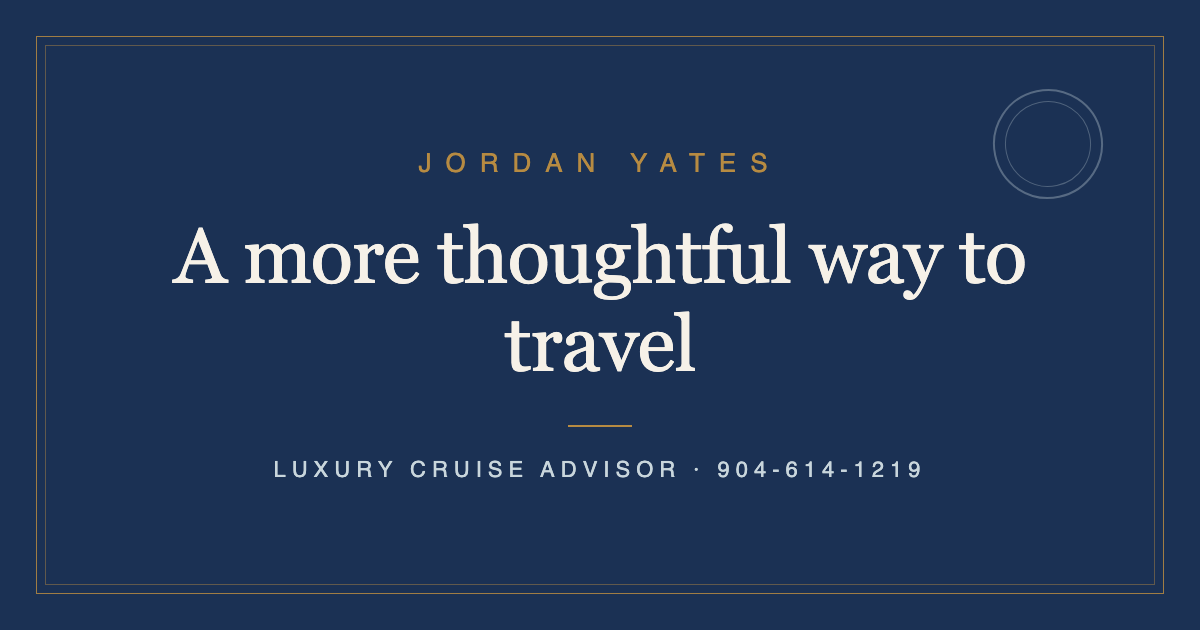
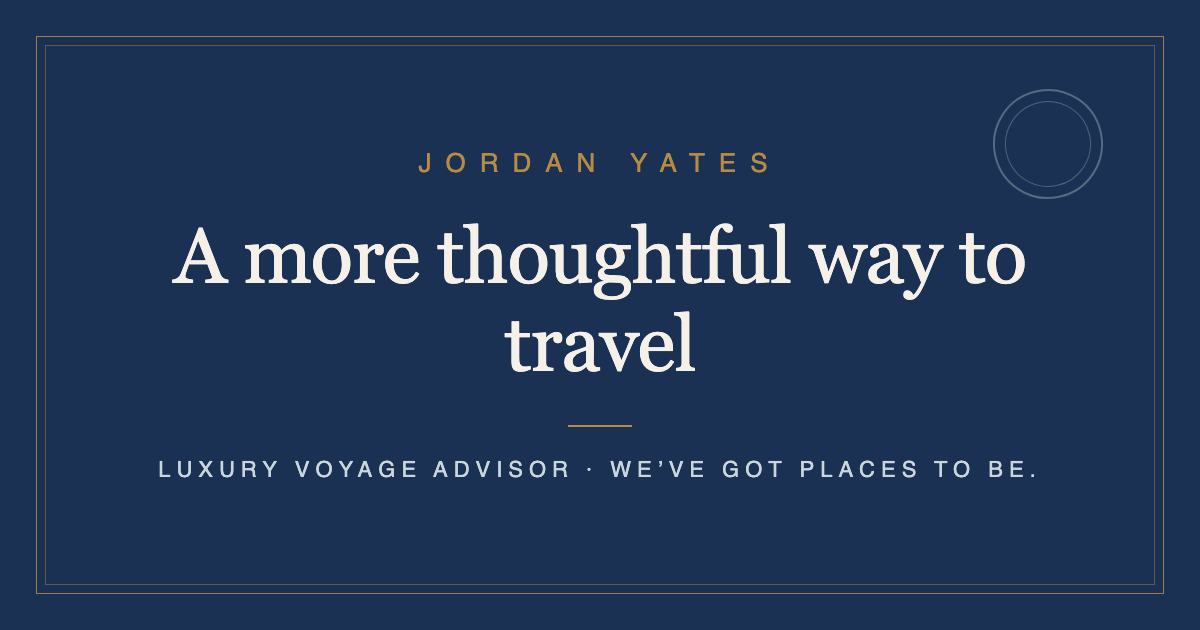
Adopt the business-card identity decisions
From the letterpress card artwork: title becomes Luxury Voyage
Advisor (masthead, footer, stamp arc, OG image); footer credentials
read "In partnership with Luxury Cruise Connections · Virtuoso
member · Est. 2011"; the tagline "We've got places to be." closes
the colophon; service hours join the quote-section phone line.

Changed region(s): [[0.1233, 0.7238, 0.8633, 0.754]]

diff --git a/src/components/SiteFooter.tsx b/src/components/SiteFooter.tsx
@@ -9,7 +9,7 @@ export default function SiteFooter() {
         <div className="mt-10 flex flex-col items-center gap-2 text-center">
           <p className="font-serif text-lg tracking-tight">Jordan Yates</p>
           <p className="text-[0.65rem] uppercase tracking-[0.3em] text-aegean-ink">
-            Luxury Cruise Advisor
+            Luxury Voyage Advisor
           </p>
           <p
             aria-hidden="true"
@@ -33,8 +33,12 @@ export default function SiteFooter() {
             </a>
           </p>
           <p className="mt-4 max-w-[60ch] font-serif text-sm italic leading-relaxed text-aegean-ink">
-            Virtuoso member &middot; Affiliated with Luxury Cruise Connections
-            &middot; Advisor services are complimentary
+            In partnership with Luxury Cruise Connections &middot; Virtuoso
+            member &middot; Est. 2011 &middot; Advisor services are
+            complimentary
+          </p>
+          <p className="mt-6 text-kicker uppercase text-deep-harbor">
+            We&rsquo;ve got places to be.
           </p>
         </div>
       </div>

diff --git a/src/app/page.tsx b/src/app/page.tsx
@@ -320,8 +320,8 @@ export default async function Home() {
               className="underline decoration-compass-gold/70 underline-offset-4 hover:decoration-compass-gold oldstyle-nums"
             >
               904-614-1219
-            </a>
-            .
+            </a>{" "}
+            &middot; at your service 11 am&ndash;8 pm ET.
           </p>
         </div>
       </section>

diff --git a/src/components/PassportStamp.tsx b/src/components/PassportStamp.tsx
@@ -10,7 +10,7 @@ type PassportStampProps = {
  * always behind or beside text. Size, rotation, and opacity via className.
  */
 export default function PassportStamp({
-  text = "· JORDAN YATES · LUXURY CRUISE ADVISOR",
+  text = "· JORDAN YATES · LUXURY VOYAGE ADVISOR",
   className = "",
 }: PassportStampProps) {
   const arcId = useId();

diff --git a/src/components/SiteHeader.tsx b/src/components/SiteHeader.tsx
@@ -18,7 +18,7 @@ export default function SiteHeader() {
               Jordan Yates
             </span>
             <span className="mt-1 block text-[0.65rem] uppercase tracking-[0.3em] text-aegean-ink">
-              Luxury Cruise Advisor
+              Luxury Voyage Advisor
             </span>
           </Link>
           <nav

diff --git a/AGENTS.md b/AGENTS.md
@@ -7,7 +7,7 @@ The identity system lives in the Brand Bible:
 **Naming rule:** "The Aegean Passport" is the Brand Bible's internal working
 name — inspiration only, NOT a brand. It must never appear in published
 output: no page copy, titles, metadata, share images, or stamp text. The
-public identity is "Jordan Yates · Luxury Cruise Advisor". (Internal code
+public identity is "Jordan Yates · Luxury Voyage Advisor". (Internal code
 tokens like `--aegean-ink` and code comments are fine.)
 
 ## What this site is

diff --git a/CLAUDE.md b/CLAUDE.md
@@ -7,7 +7,7 @@ The identity system lives in the Brand Bible:
 **Naming rule:** "The Aegean Passport" is the Brand Bible's internal working
 name — inspiration only, NOT a brand. It must never appear in published
 output: no page copy, titles, metadata, share images, or stamp text. The
-public identity is "Jordan Yates · Luxury Cruise Advisor". (Internal code
+public identity is "Jordan Yates · Luxury Voyage Advisor". (Internal code
 tokens like `--aegean-ink` and code comments are fine.)
 
 ## What this site is
